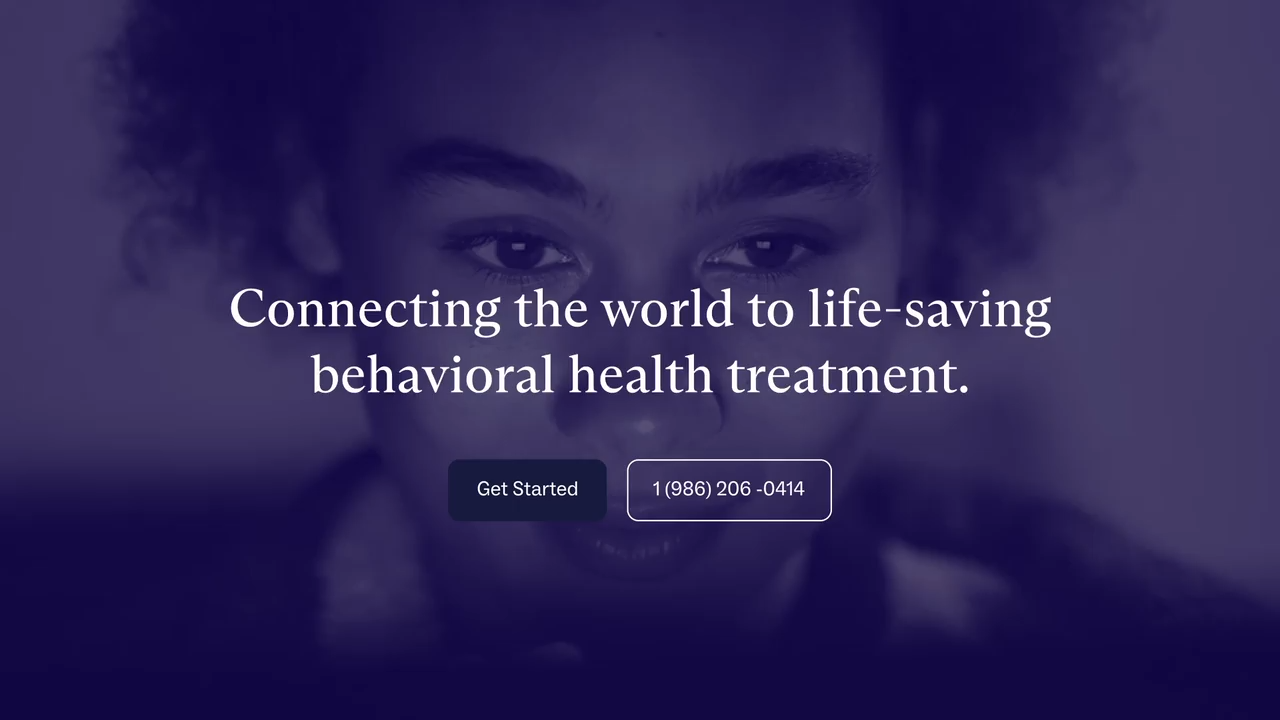
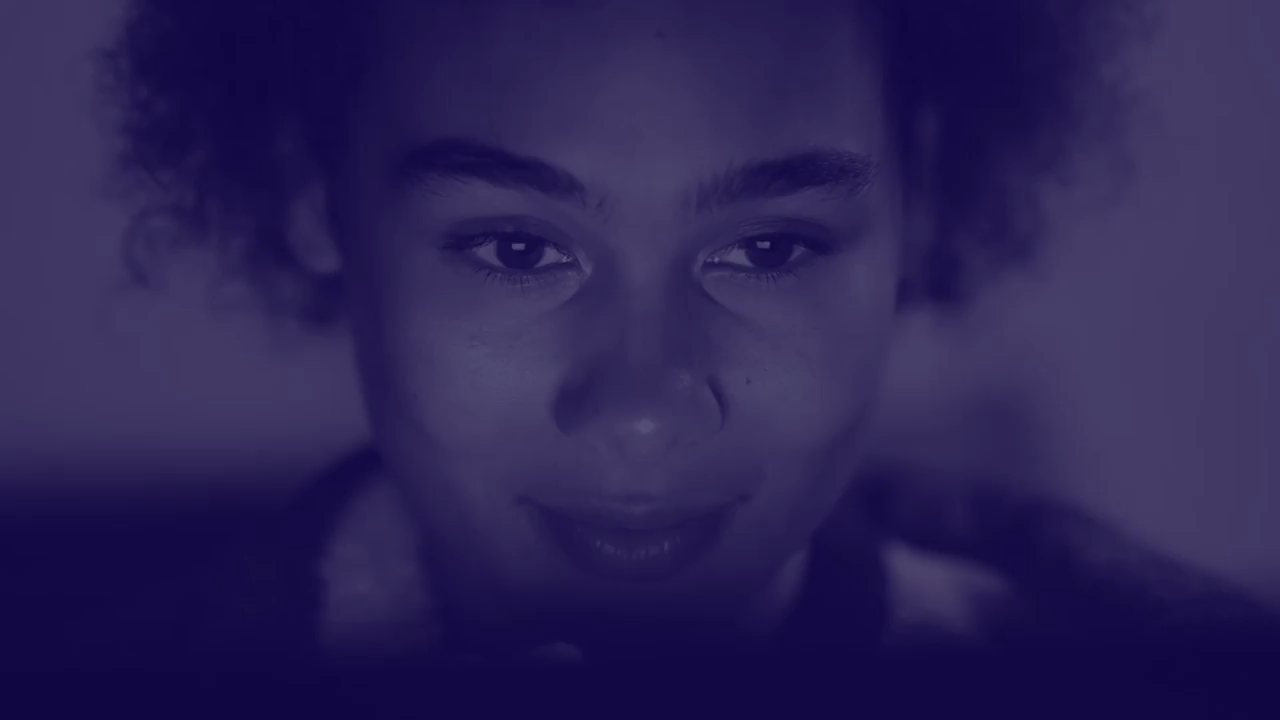
offset, text, poster

diff --git a/wp-content/themes/charliehealth/blocks/hero-bg-video/hero-bg-video.php b/wp-content/themes/charliehealth/blocks/hero-bg-video/hero-bg-video.php
@@ -1,10 +1,12 @@
-<section class="relative w-screen h-screen overflow-hidden">
+<section class="relative w-screen h-screen overflow-hidden" style="height:calc(100vh - 70px); margin-top:70px">
   <video autoplay muted loop playsinline poster="/wp-content/themes/charliehealth/resources/videos/background/poster.png" class="absolute top-0 left-0 z-0 object-cover w-full h-full">
-    <source src="/wp-content/themes/charliehealth/resources/videos/background/Sizzle_rough.mp4" type="video/mp4" />
+    <source src="/wp-content/themes/charliehealth/resources/videos/background/charlie-health-iop.mp4" type="video/mp4" />
   </video>
-  <div class="container relative z-10 flex flex-col items-center justify-center h-full text-center">
-    <h1>Your Headline</h1>
-    <h2>Your Subheading</h2>
-    <p>Some content here</p>
+  <div class="relative z-10 flex flex-col items-center justify-center h-full text-center container-md">
+    <h1 class="text-white font-heading-serif mb-base5-10">Connecting the world to life-saving behavioral health treatment.</h1>
+    <div class="flex flex-col lg:flex-wrap lg:flex-row gap-sp-4 lg:items-start items-stretch md:w-[unset] w-full">
+      <a href="/form" class="ch-button button-primary-ch">Get Started</a>
+      <a href="tel:+19862060414" class="ch-button button-secondary-ch invert">1 (986) 206-0414</a>
+    </div>
   </div>
 </section>

diff --git a/wp-content/themes/charliehealth/build/blocks/hero-bg-video/hero-bg-video.php b/wp-content/themes/charliehealth/build/blocks/hero-bg-video/hero-bg-video.php
@@ -1,10 +1,12 @@
-<section class="relative w-screen h-screen overflow-hidden">
+<section class="relative w-screen h-screen overflow-hidden" style="height:calc(100vh - 70px); margin-top:70px">
   <video autoplay muted loop playsinline poster="/wp-content/themes/charliehealth/resources/videos/background/poster.png" class="absolute top-0 left-0 z-0 object-cover w-full h-full">
-    <source src="/wp-content/themes/charliehealth/resources/videos/background/Sizzle_rough.mp4" type="video/mp4" />
+    <source src="/wp-content/themes/charliehealth/resources/videos/background/charlie-health-iop.mp4" type="video/mp4" />
   </video>
-  <div class="container relative z-10 flex flex-col items-center justify-center h-full text-center">
-    <h1>Your Headline</h1>
-    <h2>Your Subheading</h2>
-    <p>Some content here</p>
+  <div class="relative z-10 flex flex-col items-center justify-center h-full text-center container-md">
+    <h1 class="text-white font-heading-serif mb-base5-10">Connecting the world to life-saving behavioral health treatment.</h1>
+    <div class="flex flex-col lg:flex-wrap lg:flex-row gap-sp-4 lg:items-start items-stretch md:w-[unset] w-full">
+      <a href="/form" class="ch-button button-primary-ch">Get Started</a>
+      <a href="tel:+19862060414" class="ch-button button-secondary-ch invert">1 (986) 206-0414</a>
+    </div>
   </div>
 </section>
